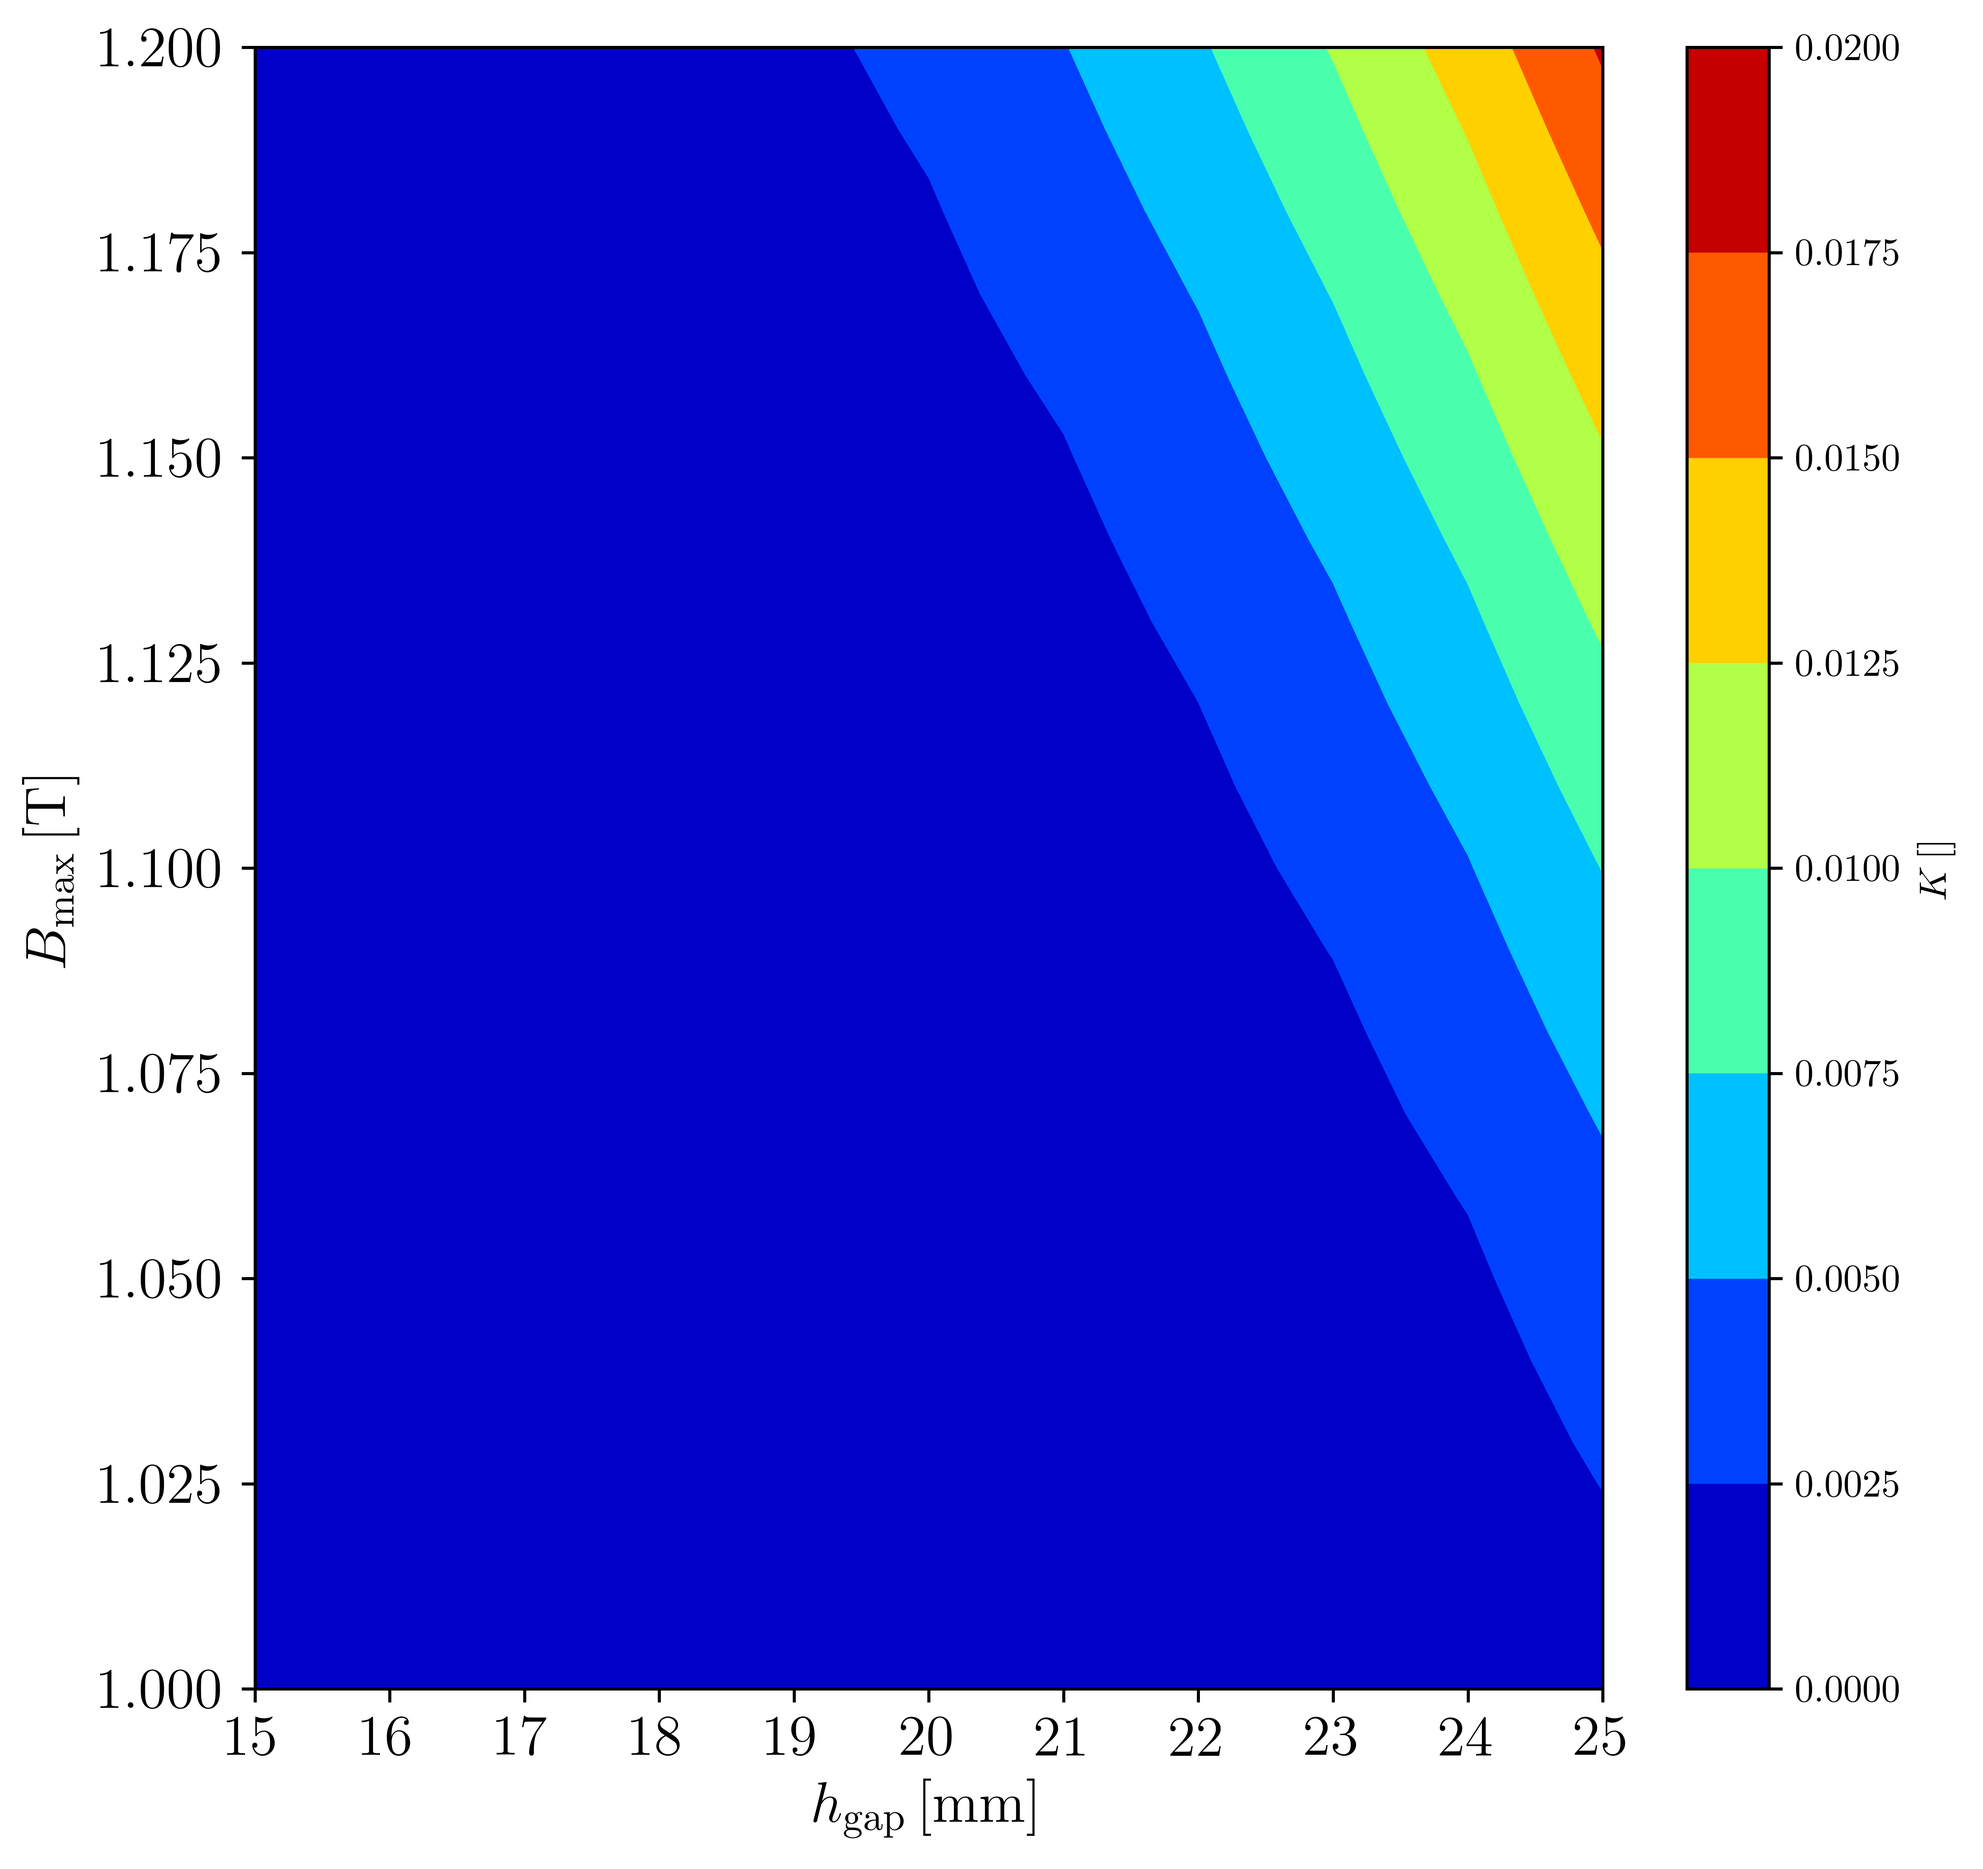
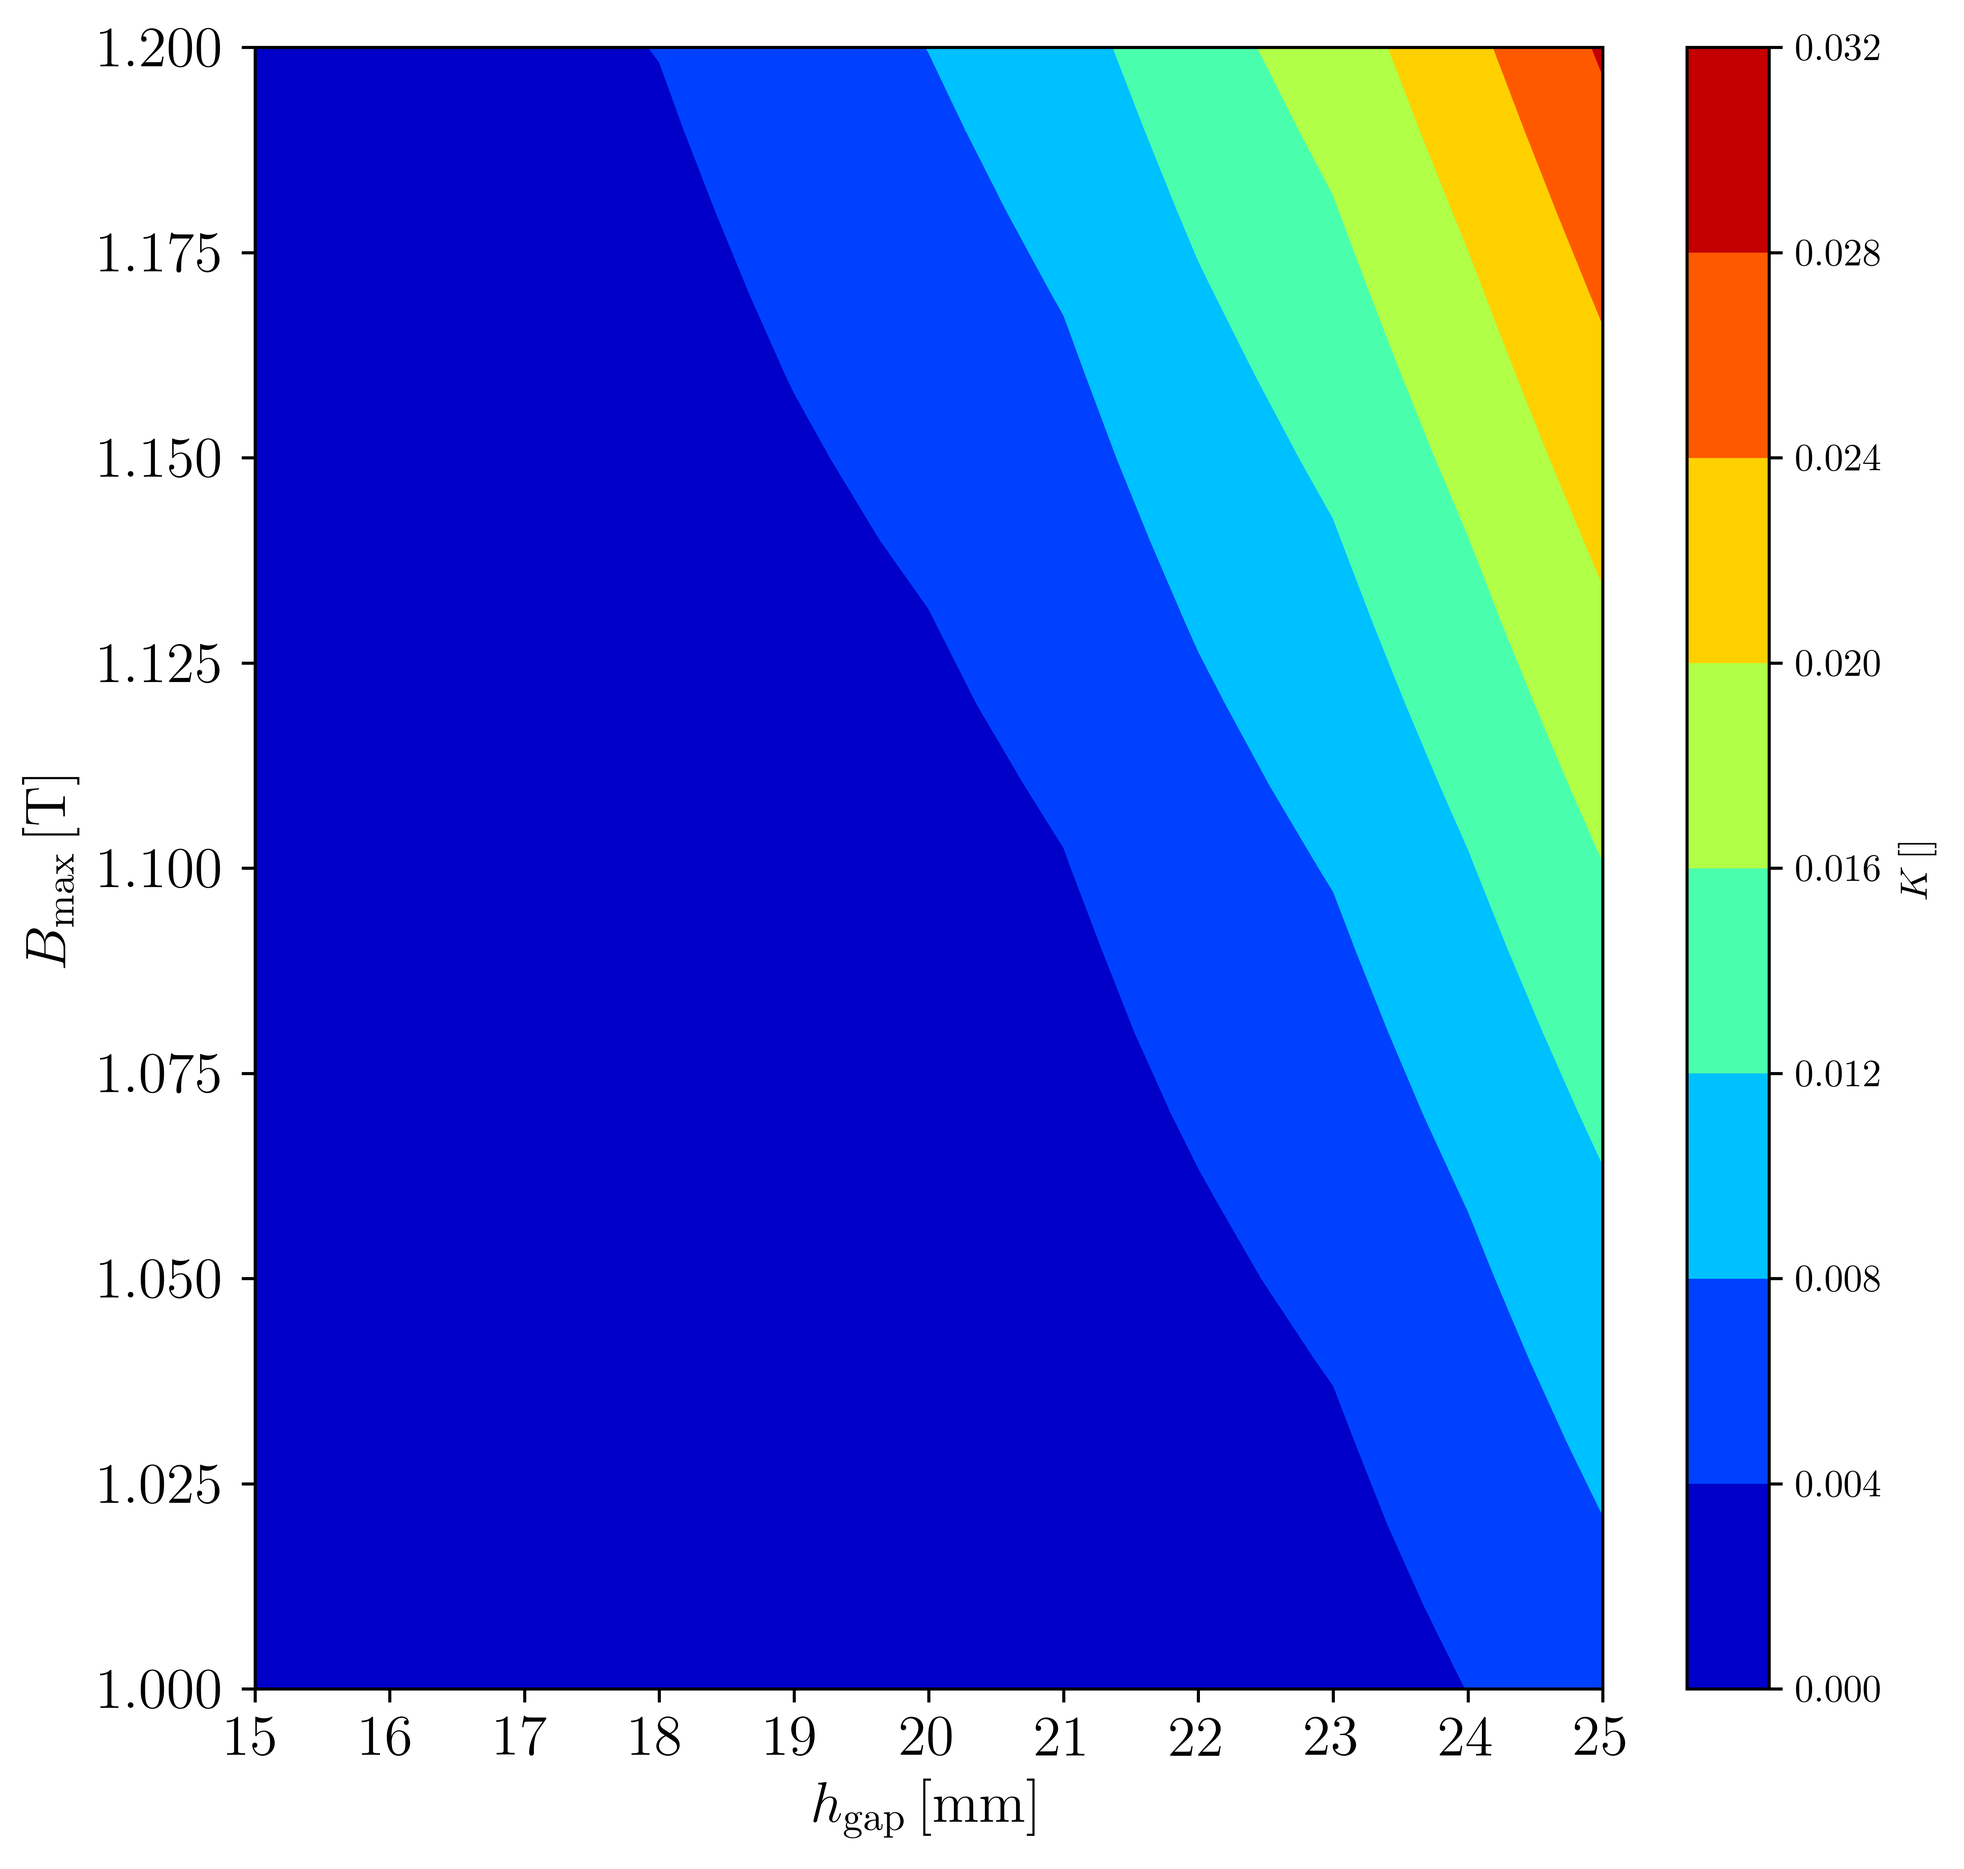
Updated all K maps with new profile calculations

diff --git a/run_K_maps.py b/run_K_maps.py
@@ -76,15 +76,16 @@ if OVERWRITE:
 
 phi_S_values = np.array([35,45,55])
 
-#B_max_min = 1.00
-B_max_min = 1.10
+
+B_max_min = 1.00
 B_max_max = 1.20
 B_max_step = 0.01
 
-B_max_values =  np.arange(B_max_min,B_max_max+B_max_step,B_max_step)
+#B_max_values =  np.arange(B_max_min,B_max_max+B_max_step,B_max_step)
+B_max_values = np.array([1.2,])
 
-
-h_gap_min = 15
+#h_gap_min = 15
+h_gap_min = 16
 h_gap_max = 25
 h_gap_step = 1
 h_gap_values = 1e-3*np.arange(h_gap_min,h_gap_max + h_gap_step, h_gap_step)
